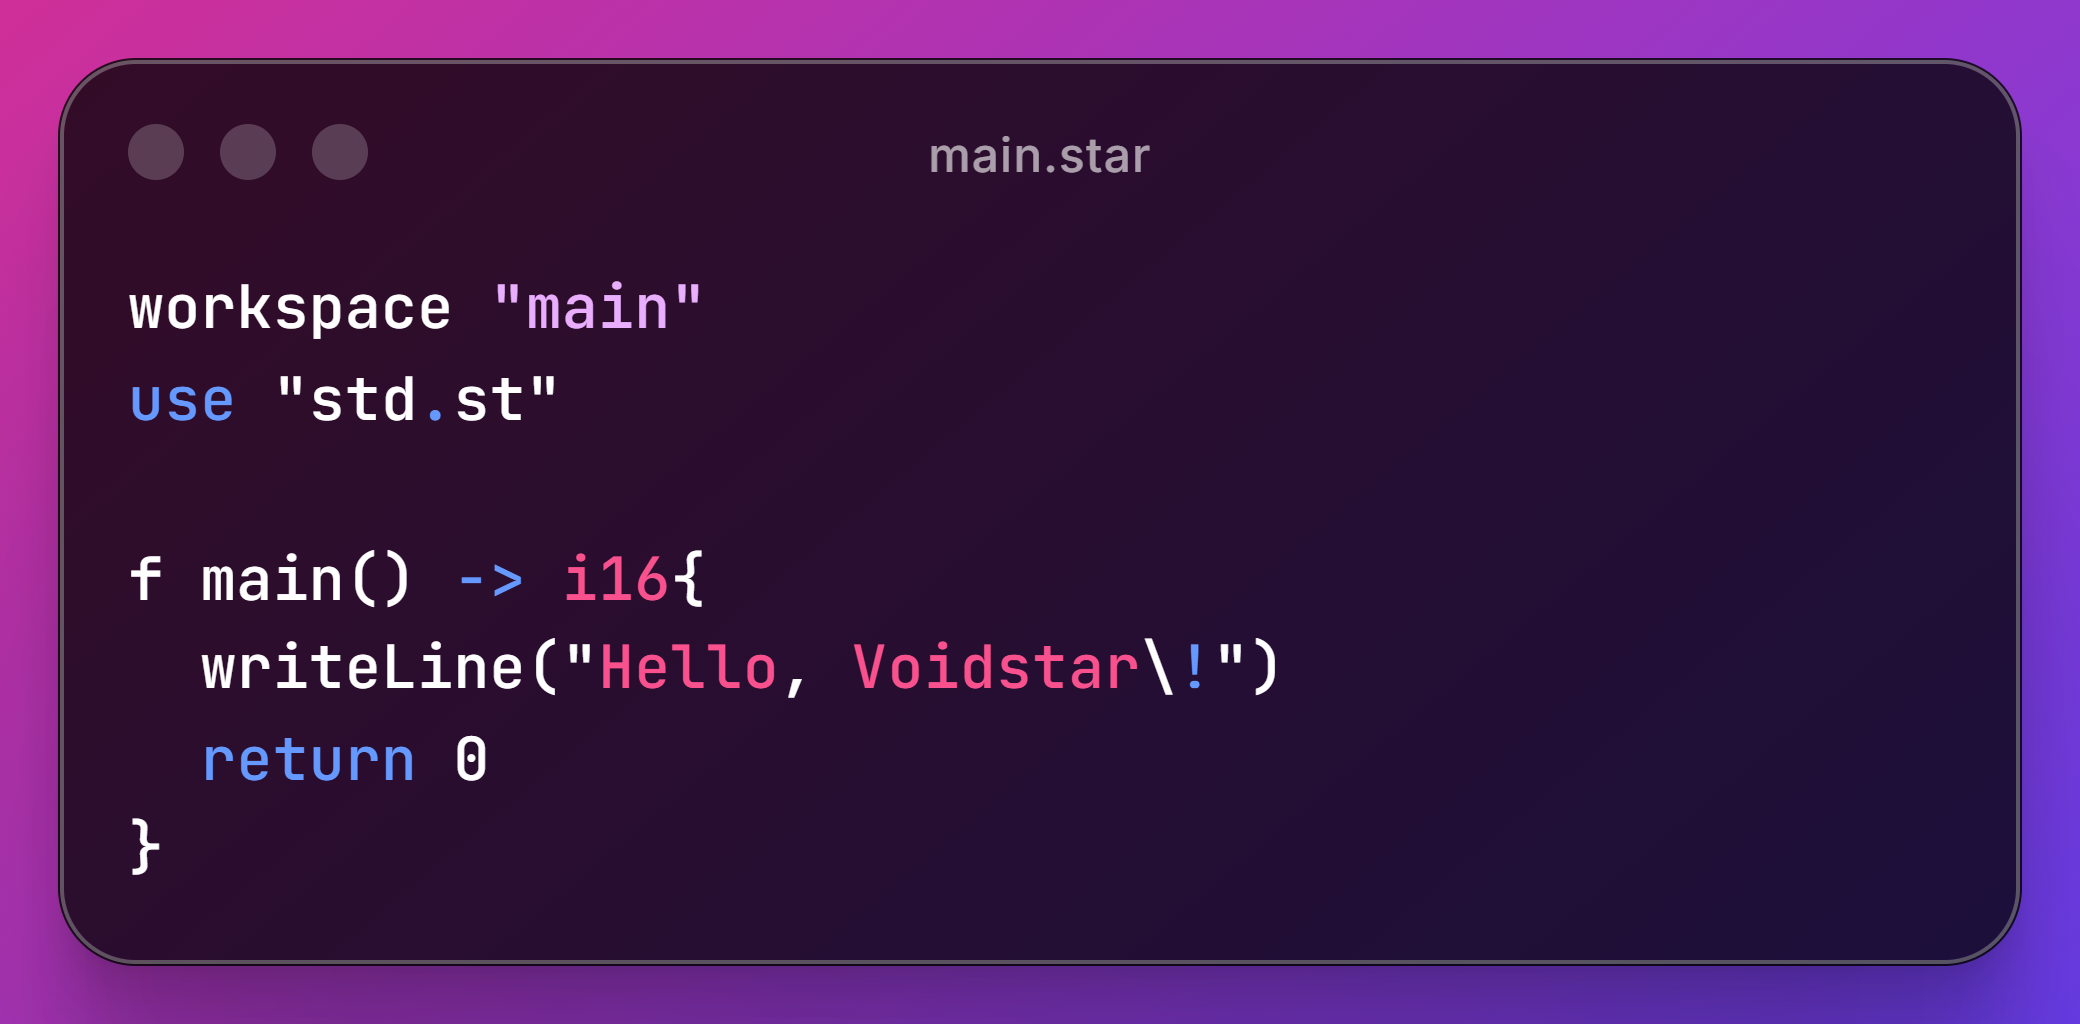
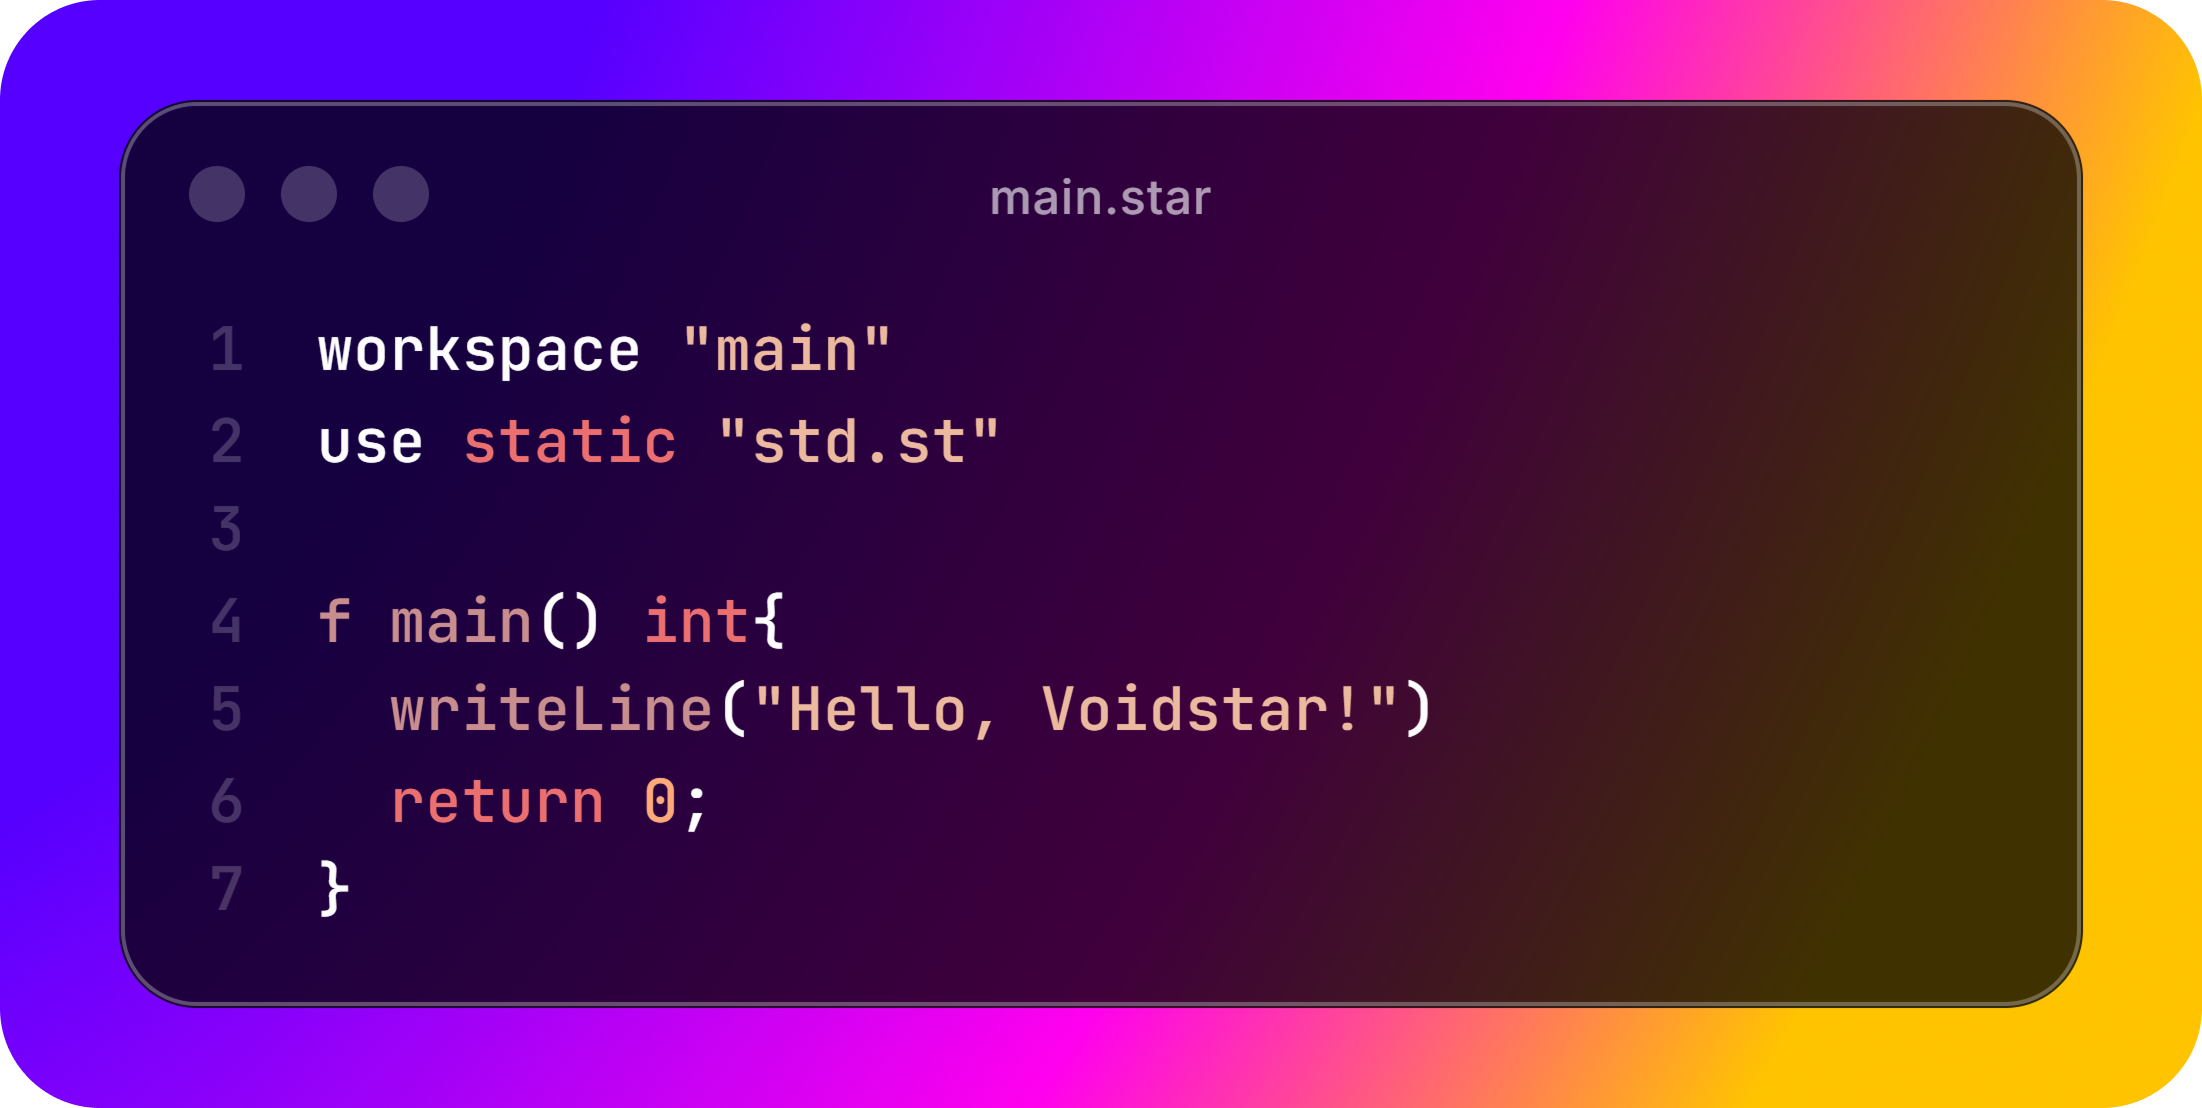
doc: Update code snippet to new syntax

diff --git a/README.md b/README.md
@@ -3,7 +3,7 @@
 
 A Compiled language, born from the stars, destined to become a never-ending void.
 
-<img src="assets/snippet.png" style="border-radius: 25px; width: 35rem" />
+<img src="assets/snippet.png" width="600" />
 </div>
 
 ---
